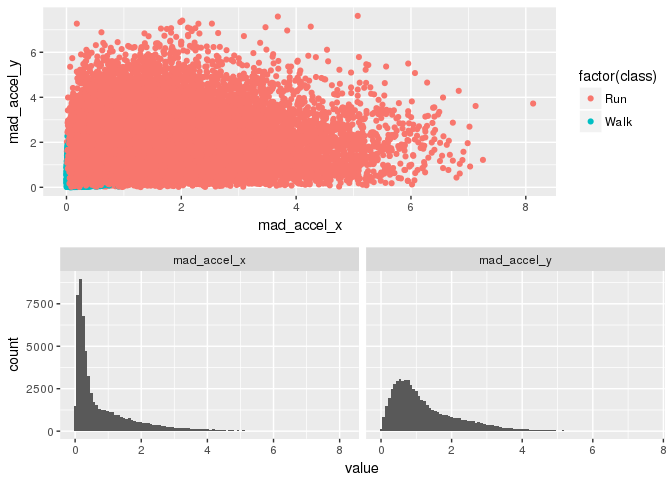
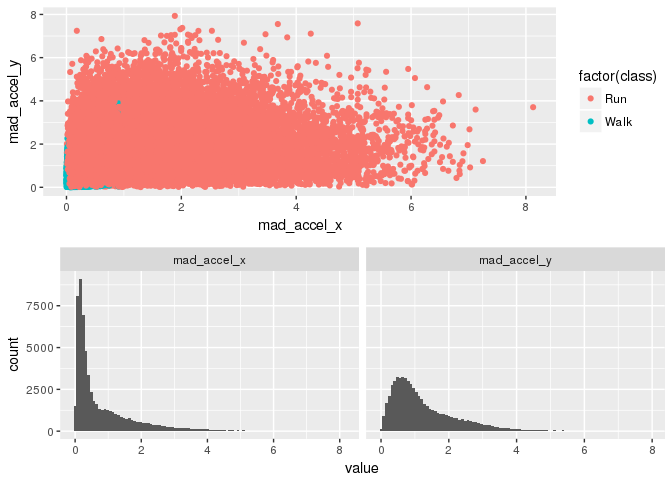
SVMRadial + glmnet

diff --git a/src/walkOrRunTS.md b/src/walkOrRunTS.md
@@ -8,9 +8,9 @@
     -   [Simple feature separation caracterization for this timeseries
         derived
         feature](#simple-feature-separation-caracterization-for-this-timeseries-derived-feature)
--   [Simple Model Fitting using temporal derived
-    feature](#simple-model-fitting-using-temporal-derived-feature)
--   [To be done](#to-be-done)
+-   [Model Fitting using temporal derived
+    feature](#model-fitting-using-temporal-derived-feature)
+-   [Classical GLM :](#classical-glm)
 
 Introduction
 ============
@@ -21,7 +21,12 @@ performance.
 Basically, walking and running should be easy to differenciate by
 looking at acceleration variation on several sequencial samples.
 
-Don't hesitate to comment / improve this quick try !
+With a radial SVM kernel, classifier accuracy is given at 0.9961137
+
+To be done : \* Better filtering to find 'coherent' time window of
+variable duration (zoo application ?) \* Automatically determine window
+size (here, 5 sample length is arbitrary) \* Work on more complex time
+based feature (MAD is quite a simple one)
 
 Boilerplate
 ===========
@@ -44,12 +49,9 @@ Loading package and data. Mainly :
     library('tidyr') # data manipulation
     library('gridExtra')
 
-    library("ROCR")
     library('stringr')
     library('data.table')
     library('zoo')
-
-    #library('DescTools')
 
     setwd("~/repo/kaggle/walkOrRun/src/")
 
@@ -181,40 +183,35 @@ Perform rolling variance / rolling MAD on windowSize Timeframe
     dftps$mad_gyro_z    <-  rollapply(dftps$gyro_z, width=windowsSize, FUN=mad, align="center", partial=0)
 
     dftps               <-  dftps %>%
-                            mutate(validity = ifelse(abs(gmt - lag(gmt,windowsSize)) < maxDeltaSecInWindow, 1, 0),
-                                   mad_accel_x = ifelse( validity == 1, mad_accel_x, NA),
-                                   mad_accel_y = ifelse( validity == 1, mad_accel_y, NA),
-                                   mad_accel_z = ifelse( validity == 1, mad_accel_z, NA),
-                                   mad_gyro_x = ifelse( validity == 1, mad_gyro_x, NA),
-                                   mad_gyro_y = ifelse( validity == 1, mad_gyro_y, NA),
-                                   mad_gyro_z = ifelse( validity == 1, mad_gyro_z, NA))
+                            mutate(temporalValidity = ifelse(abs(gmt - lag(gmt,windowsSize)) < maxDeltaSecInWindow, 1, 0),
+                                   temporalValidity = ifelse(is.na(temporalValidity), 0, temporalValidity))
     glimpse(dftps)
 
     ## Observations: 88,588
     ## Variables: 16
-    ## $ wrist          <int> 0, 0, 0, 0, 0, 0, 0, 0, 0, 0, 0, 0, 0, 0, 0, 0,...
-    ## $ acceleration_x <dbl> 0.2650, 0.6722, 0.4399, 0.3031, 0.4814, 0.6320,...
-    ## $ acceleration_y <dbl> -0.7814, -1.1233, -1.4817, -0.8125, -0.9312, -1...
-    ## $ acceleration_z <dbl> -0.0076, -0.2344, 0.0722, 0.0888, 0.0359, -0.29...
-    ## $ gyro_x         <dbl> -0.0590, -0.1757, -0.9105, 0.1199, 0.0527, 0.05...
-    ## $ gyro_y         <dbl> 0.0325, 0.0208, 0.1063, -0.4099, 0.4379, -0.189...
-    ## $ gyro_z         <dbl> -2.9296, 0.1269, -2.4367, -2.9336, 2.4922, 0.44...
-    ## $ class          <chr> "Walk", "Walk", "Walk", "Walk", "Walk", "Walk",...
-    ## $ gmt            <dttm> 2017-06-30 13:51:15.847723, 2017-06-30 13:51:1...
-    ## $ mad_accel_x    <dbl> NA, NA, NA, NA, NA, 0.2232796, 0.2232796, 0.241...
-    ## $ mad_accel_y    <dbl> NA, NA, NA, NA, NA, 0.18621456, 0.18621456, 0.3...
-    ## $ mad_accel_z    <dbl> NA, NA, NA, NA, NA, 0.18369414, 0.18369414, 0.1...
-    ## $ mad_gyro_x     <dbl> NA, NA, NA, NA, NA, 0.09651726, 0.69682200, 0.6...
-    ## $ mad_gyro_y     <dbl> NA, NA, NA, NA, NA, 0.28465920, 0.04077150, 0.0...
-    ## $ mad_gyro_z     <dbl> NA, NA, NA, NA, NA, 3.031769, 3.031769, 2.79040...
-    ## $ validity       <dbl> NA, NA, NA, NA, NA, 1, 1, 1, 1, 1, 1, 1, 1, 1, ...
+    ## $ wrist            <int> 0, 0, 0, 0, 0, 0, 0, 0, 0, 0, 0, 0, 0, 0, 0, ...
+    ## $ acceleration_x   <dbl> 0.2650, 0.6722, 0.4399, 0.3031, 0.4814, 0.632...
+    ## $ acceleration_y   <dbl> -0.7814, -1.1233, -1.4817, -0.8125, -0.9312, ...
+    ## $ acceleration_z   <dbl> -0.0076, -0.2344, 0.0722, 0.0888, 0.0359, -0....
+    ## $ gyro_x           <dbl> -0.0590, -0.1757, -0.9105, 0.1199, 0.0527, 0....
+    ## $ gyro_y           <dbl> 0.0325, 0.0208, 0.1063, -0.4099, 0.4379, -0.1...
+    ## $ gyro_z           <dbl> -2.9296, 0.1269, -2.4367, -2.9336, 2.4922, 0....
+    ## $ class            <chr> "Walk", "Walk", "Walk", "Walk", "Walk", "Walk...
+    ## $ gmt              <dttm> 2017-06-30 13:51:15.847723, 2017-06-30 13:51...
+    ## $ mad_accel_x      <dbl> 0.2593067, 0.1296534, 0.2028197, 0.2232796, 0...
+    ## $ mad_accel_y      <dbl> 0.50690094, 0.25345047, 0.22209348, 0.2848074...
+    ## $ mad_accel_z      <dbl> 0.11831148, 0.07146132, 0.06449310, 0.0784295...
+    ## $ mad_gyro_x       <dbl> 0.17301942, 0.21912828, 0.17301942, 0.0996307...
+    ## $ mad_gyro_y       <dbl> 0.01734642, 0.06338115, 0.10941588, 0.3119390...
+    ## $ mad_gyro_z       <dbl> 0.7307735, 0.3683520, 0.7367039, 3.5067938, 2...
+    ## $ temporalValidity <dbl> 0, 0, 0, 0, 0, 1, 1, 1, 1, 1, 1, 1, 1, 1, 1, ...
 
 Simple feature separation caracterization for this timeseries derived feature
 -----------------------------------------------------------------------------
 
     intrain       <- createDataPartition(y=dftps$class , p=0.7, list=FALSE)
-    dftps_train   <- dftps[intrain,]  %>% select(-gmt, -validity)
-    dftps_test    <- dftps[-intrain,] %>% select(-gmt, -validity)
+    dftps_train   <- dftps[intrain,]  %>% select(-gmt)
+    dftps_test    <- dftps[-intrain,] %>% select(-gmt)
 
     dftps_train_PP   <- preProcess(dftps_train[names(dftps_train) != "class"], method = c("scale"))
     dftps_train_PP   <- data.frame(predict(dftps_train_PP, dftps_train[names(dftps_train) != "class"]), class = dftps_train$class)
@@ -232,10 +229,6 @@ per class :
 
     grid.arrange(p1, p2)
 
-    ## Warning: Removed 1163 rows containing missing values (geom_point).
-
-    ## Warning: Removed 2326 rows containing non-finite values (stat_bin).
-
 ![](walkOrRunTS_files/figure-markdown_strict/unnamed-chunk-12-1.png)
 
 LDA processing and Run / Walk differenciability :
@@ -248,20 +241,112 @@ Distribution plot :
     dataset <- data.frame(class = dftps_train_PP[,"class"], lda = plda$x)
     ggplot(dataset, aes(x=LD1, colour = class, fill = class)) + geom_density(alpha = 0.1)
 
-    ## Warning: Removed 1163 rows containing non-finite values (stat_density).
-
 ![](walkOrRunTS_files/figure-markdown_strict/unnamed-chunk-14-1.png)
 
 Look nice ;)
 
-Simple Model Fitting using temporal derived feature
-===================================================
+Model Fitting using temporal derived feature
+============================================
 
-Simple Logistic Regression (extracted from
-<https://www.kaggle.com/pcharambira/logistic-regression-vs-decision-tree>
-on the same dataset)
+Simple SVM Radial training :
 
-    model_logistic = glm(class ~   acceleration_x +
+    trControl <- trainControl(method = "cv",  number=3, verboseIter = FALSE)
+    SVMRadial_fit <- caret::train(class ~   acceleration_x +
+                                   acceleration_y +
+                                   acceleration_z + 
+                                   mad_accel_x +        
+                                   mad_accel_y +
+                                   mad_accel_z +
+                                   mad_gyro_x + 
+                                   mad_gyro_y + 
+                                   mad_gyro_z + 
+                                   gyro_x +
+                                   gyro_y +
+                                   gyro_z , 
+                    data=dftps_train_PP, 
+                    method = "svmRadial",
+                    preProcess = c("center", "scale"),
+                    tuneLength = 5, 
+                    trControl = trControl,
+                    metric = 'Accuracy')
+
+    ## Loading required package: kernlab
+
+    ## 
+    ## Attaching package: 'kernlab'
+
+    ## The following object is masked from 'package:scales':
+    ## 
+    ##     alpha
+
+    ## The following object is masked from 'package:ggplot2':
+    ## 
+    ##     alpha
+
+    SVMRadial_fit
+
+    ## Support Vector Machines with Radial Basis Function Kernel 
+    ## 
+    ## 62013 samples
+    ##    12 predictors
+    ##     2 classes: 'Run', 'Walk' 
+    ## 
+    ## Pre-processing: centered (12), scaled (12) 
+    ## Resampling: Cross-Validated (3 fold) 
+    ## Summary of sample sizes: 41342, 41342, 41342 
+    ## Resampling results across tuning parameters:
+    ## 
+    ##   C     Accuracy   Kappa    
+    ##   0.25  0.9913889  0.9827779
+    ##   0.50  0.9925338  0.9850677
+    ##   1.00  0.9932917  0.9865835
+    ##   2.00  0.9939529  0.9879058
+    ##   4.00  0.9945173  0.9890346
+    ## 
+    ## Tuning parameter 'sigma' was held constant at a value of 0.08578882
+    ## Accuracy was used to select the optimal model using  the largest value.
+    ## The final values used for the model were sigma = 0.08578882 and C = 4.
+
+    # Performances:
+    p_SVMRad = predict(SVMRadial_fit, dftps_train_PP, type="raw")
+    print(confusionMatrix(p_SVMRad, dftps_train_PP$class))
+
+    ## Confusion Matrix and Statistics
+    ## 
+    ##           Reference
+    ## Prediction   Run  Walk
+    ##       Run  30895    84
+    ##       Walk   161 30873
+    ##                                           
+    ##                Accuracy : 0.996           
+    ##                  95% CI : (0.9955, 0.9965)
+    ##     No Information Rate : 0.5008          
+    ##     P-Value [Acc > NIR] : < 2.2e-16       
+    ##                                           
+    ##                   Kappa : 0.9921          
+    ##  Mcnemar's Test P-Value : 1.201e-06       
+    ##                                           
+    ##             Sensitivity : 0.9948          
+    ##             Specificity : 0.9973          
+    ##          Pos Pred Value : 0.9973          
+    ##          Neg Pred Value : 0.9948          
+    ##              Prevalence : 0.5008          
+    ##          Detection Rate : 0.4982          
+    ##    Detection Prevalence : 0.4996          
+    ##       Balanced Accuracy : 0.9961          
+    ##                                           
+    ##        'Positive' Class : Run             
+    ## 
+
+    postResample(p_SVMRad, dftps_train_PP$class)
+
+    ##  Accuracy     Kappa 
+    ## 0.9960492 0.9920984
+
+Classical GLM :
+===============
+
+    model_logistic = caret::train(class ~   acceleration_x +
                                    acceleration_y +
                                    acceleration_z + 
                                    mad_accel_x +        
@@ -273,79 +358,80 @@ on the same dataset)
                                    gyro_x +
                                    gyro_y +
                                    gyro_z ,
-                                   family=binomial(link='logit'), control = list(maxit = 50), data=dftps_train_PP)
+                                   method="glmnet",
+                                   trControl = trControl,
+                                   data=dftps_train_PP)
 
-    ## Warning: glm.fit: fitted probabilities numerically 0 or 1 occurred
+    ## Loading required package: glmnet
+
+    ## Loading required package: Matrix
+
+    ## 
+    ## Attaching package: 'Matrix'
+
+    ## The following object is masked from 'package:tidyr':
+    ## 
+    ##     expand
+
+    ## Loading required package: foreach
+
+    ## Loaded glmnet 2.0-10
 
     print(summary(model_logistic))
 
+    ##             Length Class      Mode     
+    ## a0            87   -none-     numeric  
+    ## beta        1044   dgCMatrix  S4       
+    ## df            87   -none-     numeric  
+    ## dim            2   -none-     numeric  
+    ## lambda        87   -none-     numeric  
+    ## dev.ratio     87   -none-     numeric  
+    ## nulldev        1   -none-     numeric  
+    ## npasses        1   -none-     numeric  
+    ## jerr           1   -none-     numeric  
+    ## offset         1   -none-     logical  
+    ## classnames     2   -none-     character
+    ## call           5   -none-     call     
+    ## nobs           1   -none-     numeric  
+    ## lambdaOpt      1   -none-     numeric  
+    ## xNames        12   -none-     character
+    ## problemType    1   -none-     character
+    ## tuneValue      2   data.frame list     
+    ## obsLevels      2   -none-     character
+    ## param          0   -none-     list
+
+    # Performances :
+    p_GLM = predict(model_logistic, dftps_train_PP, type = "raw")
+    print(confusionMatrix(p_GLM, dftps_train_PP$class))
+
+    ## Confusion Matrix and Statistics
     ## 
-    ## Call:
-    ## glm(formula = class ~ acceleration_x + acceleration_y + acceleration_z + 
-    ##     mad_accel_x + mad_accel_y + mad_accel_z + mad_gyro_x + mad_gyro_y + 
-    ##     mad_gyro_z + gyro_x + gyro_y + gyro_z, family = binomial(link = "logit"), 
-    ##     data = dftps_train_PP, control = list(maxit = 50))
+    ##           Reference
+    ## Prediction   Run  Walk
+    ##       Run  30066   459
+    ##       Walk   990 30498
+    ##                                           
+    ##                Accuracy : 0.9766          
+    ##                  95% CI : (0.9754, 0.9778)
+    ##     No Information Rate : 0.5008          
+    ##     P-Value [Acc > NIR] : < 2.2e-16       
+    ##                                           
+    ##                   Kappa : 0.9533          
+    ##  Mcnemar's Test P-Value : < 2.2e-16       
+    ##                                           
+    ##             Sensitivity : 0.9681          
+    ##             Specificity : 0.9852          
+    ##          Pos Pred Value : 0.9850          
+    ##          Neg Pred Value : 0.9686          
+    ##              Prevalence : 0.5008          
+    ##          Detection Rate : 0.4848          
+    ##    Detection Prevalence : 0.4922          
+    ##       Balanced Accuracy : 0.9766          
+    ##                                           
+    ##        'Positive' Class : Run             
     ## 
-    ## Deviance Residuals: 
-    ##     Min       1Q   Median       3Q      Max  
-    ## -4.3236  -0.0011   0.0078   0.0813   4.4376  
-    ## 
-    ## Coefficients:
-    ##                Estimate Std. Error z value Pr(>|z|)    
-    ## (Intercept)     3.62139    0.14392  25.163  < 2e-16 ***
-    ## acceleration_x -0.20376    0.05199  -3.919 8.89e-05 ***
-    ## acceleration_y -4.40919    0.09207 -47.887  < 2e-16 ***
-    ## acceleration_z  0.50233    0.05603   8.965  < 2e-16 ***
-    ## mad_accel_x    -6.98435    0.15380 -45.411  < 2e-16 ***
-    ## mad_accel_y    -2.15674    0.05406 -39.893  < 2e-16 ***
-    ## mad_accel_z    -3.98568    0.10879 -36.636  < 2e-16 ***
-    ## mad_gyro_x      0.23471    0.03393   6.918 4.59e-12 ***
-    ## mad_gyro_y      0.25157    0.03054   8.236  < 2e-16 ***
-    ## mad_gyro_z     -0.47691    0.03486 -13.680  < 2e-16 ***
-    ## gyro_x          0.03679    0.03715   0.990  0.32207    
-    ## gyro_y          0.08994    0.03479   2.585  0.00974 ** 
-    ## gyro_z         -0.20306    0.03553  -5.716 1.09e-08 ***
-    ## ---
-    ## Signif. codes:  0 '***' 0.001 '**' 0.01 '*' 0.05 '.' 0.1 ' ' 1
-    ## 
-    ## (Dispersion parameter for binomial family taken to be 1)
-    ## 
-    ##     Null deviance: 84355.2  on 60849  degrees of freedom
-    ## Residual deviance:  7627.3  on 60837  degrees of freedom
-    ##   (1163 observations deleted due to missingness)
-    ## AIC: 7653.3
-    ## 
-    ## Number of Fisher Scoring iterations: 10
 
-    # Apply the algorithm to the training sample
-    prediction_training = predict(model_logistic, dftps_train_PP, type = "response")
-    prediction_training = ifelse(prediction_training > 0.5, "Walk", "Run")
-    error = mean(prediction_training != dftps_train_PP$class)
-    print(paste('Model Accuracy after a split along the 0.5 probability',1-error))
+    postResample(p_GLM, dftps_train_PP$class)
 
-    ## [1] "Model Accuracy after a split along the 0.5 probability NA"
-
-    # Get the ROC curve and the AUC
-    p = predict(model_logistic, dftps_train_PP, type="response")
-    pr = prediction(p, dftps_train_PP$class)
-    prf = performance(pr, measure = "tpr", x.measure = "fpr")
-    plot(prf)
-
-![](walkOrRunTS_files/figure-markdown_strict/unnamed-chunk-16-1.png)
-
-    auc = performance(pr, measure = "auc")
-    auc = auc@y.values[[1]]
-    print(paste("General Model Accuracy", auc))
-
-    ## [1] "General Model Accuracy 0.997059224460541"
-
-To be done
-==========
-
--   Better filtering to find 'coherent' time window of variable duration
-    (zoo application ?)
--   Automatically determine window size (here, 5 sample length
-    is arbitrary)
--   Work on more complex time based feature (MAD is quite a simple one)
--   Work harder on model fitting (here, simple copy / paste from
-    <https://www.kaggle.com/pcharambira/logistic-regression-vs-decision-tree>)
+    ##  Accuracy     Kappa 
+    ## 0.9766339 0.9532690
